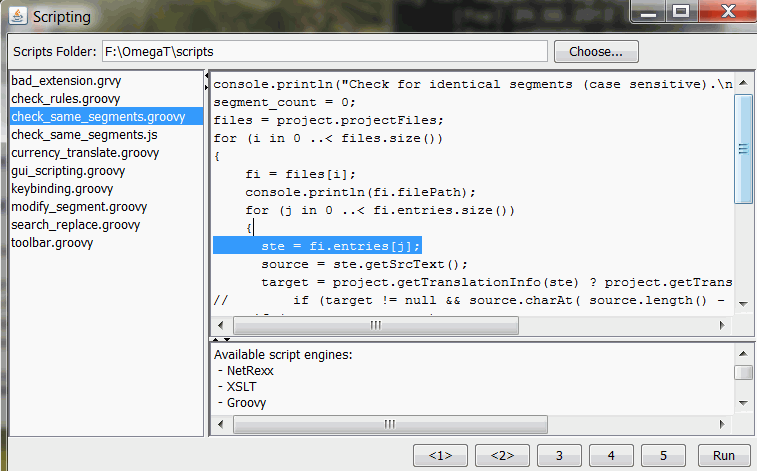
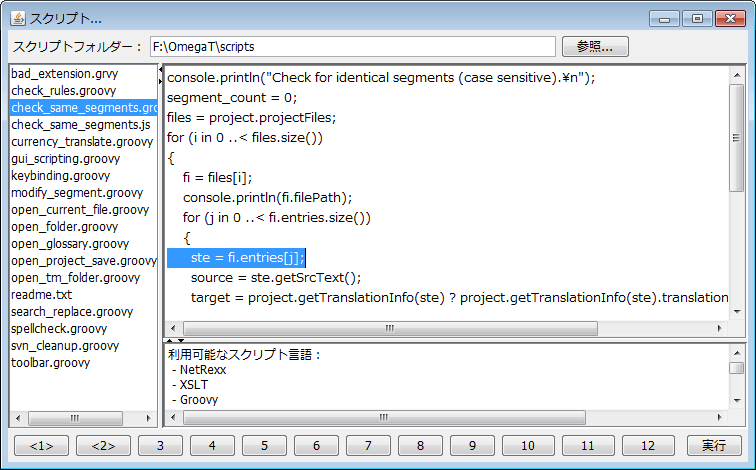
Update Japanese translation (UI, documentation)

diff --git a/trunk/docs/ja/appendix.ScriptingPlugin.inOmegaT.html b/trunk/docs/ja/appendix.ScriptingPlugin.inOmegaT.html
@@ -1,4 +1,4 @@
-<html><head><meta http-equiv="Content-Type" content="text/html; charset=UTF-8"><title>付録F スクリプト プラグイン</title><link rel="stylesheet" type="text/css" href="OmegaT.css"><meta name="generator" content="DocBook XSL Stylesheets V1.78.1"><link rel="home" href="index.html" title="OmegaT 3.0 - 取扱説明書"><link rel="up" href="index.html" title="OmegaT 3.0 - 取扱説明書"><link rel="prev" href="appendix.LanguageToolPlugin.inOmegaT.html" title="付録E LanguageTool プラグイン"><link rel="next" href="appendix.website.html" title="付録G ウェブ上の OmegaT 情報"></head><body bgcolor="white" text="black" link="#0000FF" vlink="#840084" alink="#0000FF"><div class="navheader"><table width="100%" summary="Navigation header"><tr><th colspan="3" align="center">付録F スクリプト プラグイン</th></tr><tr><td width="20%" align="left"><a accesskey="p" href="appendix.LanguageToolPlugin.inOmegaT.html">戻る</a>&nbsp;</td><th width="60%" align="center">&nbsp;</th><td width="20%" align="right">&nbsp;<a accesskey="n" href="appendix.website.html">次へ</a></td></tr></table><hr></div><div class="appendix"><div class="titlepage"><div><div><h1 class="title"><a name="appendix.ScriptingPlugin.inOmegaT"></a>付録F スクリプト プラグイン<a class="indexterm" name="d0e10859"></a></h1></div></div></div><div class="toc"><dl class="toc"><dt><span class="section"><a href="appendix.ScriptingPlugin.inOmegaT.html#d0e10864">1. はじめに</a></span></dt><dt><span class="section"><a href="appendix.ScriptingPlugin.inOmegaT.html#d0e10869">2. インストールと使い方</a></span></dt></dl></div><div class="section"><div class="titlepage"><div><div><h2 class="title" style="clear: both"><a name="d0e10864"></a>1. はじめに</h2></div></div></div><p>スクリプト プラグインを使うと、さまざまなスクリプト言語で書かれたスクリプトを OmegaT で実行することができます。</p></div><div class="section"><div class="titlepage"><div><div><h2 class="title" style="clear: both"><a name="d0e10869"></a>2. インストールと使い方</h2></div></div></div><p>OmegaT 用のスクリプト プラグインは、<a class="ulink" href="http://sourceforge.net/projects/omegat-plugins/files" target="_top">OmegaT プラグインのダウンロードサイト</a>から入手できます。Zip 圧縮ファイルを解凍して、展開されたすべてのファイルを「plugins」フォルダーに移動してください。「plugins」フォルダーは通常、OmegaT のインストール先フォルダー（OmegaT.jar ファイルを含む）の配下にあります。もし「plugins」フォルダーが見当たらなければ、先にフォルダーを作成してください。</p><p>インストールが完了すると、<span class="guisubmenu">［ツール］</span>メニューに新たに<span class="guisubmenu">［スクリプト...］</span>サブメニューが追加されます。また<span class="guisubmenu">［スクリプト...］</span>サブメニューの下には、スクリプト用の五つのプレースホルダーも追加されます。<span class="guisubmenu">［スクリプト...］</span>をクリックすると、スクリプト ダイアログが開きます：</p><div class="screenshot"><div class="mediaobject"><img src="images/ScriptingDialog.png"></div></div><p>スクリプト ダイアログ上では、既存のスクリプトをテキスト欄に読み込んだり、それをいま開いているプロジェクトに対して実行したりできます。スクリプトをカスタマイズする手順は、次の通りです：</p><div class="itemizedlist"><ul class="itemizedlist" style="list-style-type: disc; "><li class="listitem"><p>左側のスクリプト一覧から目的のスクリプト名をクリックして、編集ウィンドウに読み込みます。</p></li></ul></div><div class="itemizedlist"><ul class="itemizedlist" style="list-style-type: disc; "><li class="listitem"><p>下部にある「1」から「5」のどれかのボタンの上で右クリックし、［スクリプトを設定］を選びます。上の画像では、２つのスクリプトがすでに（ボタン「&lt;1&gt;」と「&lt;2&gt;」に）設定済みです。</p></li></ul></div><div class="itemizedlist"><ul class="itemizedlist" style="list-style-type: disc; "><li class="listitem"><p>数値ボタンを左クリックすると、そこに設定されているスクリプトを実行できます。また<span class="guisubmenu">［ツール］</span>メニューからスクリプトを選んだり、割り当てられたショートカットキー<span class="keycap"><strong>Ctrl+Alt+F#</strong></span>（# は 1 から 5）を使うことでも、同じようにスクリプトを実行できます。</p></li></ul></div><p>以下のスクリプト言語は、最初から使える状態になっています：</p><div class="itemizedlist"><ul class="itemizedlist" style="list-style-type: disc; "><li class="listitem"><p><span class="bold"><strong>NetRexx</strong></span>（http://www.netrexx.org/）： 旧来の REXX 構文を利用できます。予約キーワードはありません。Java のオブジェクト モデルと互換性のある形でオブジェクト指向プログラミングをサポートするため、多くの拡張が施されています。環境に存在するすべての Java クラスライブラリを、特別な設定をすることなくそのまま利用できます。あるいは Java プログラマーであれば、Java のソースプログラムからランタイム パッケージ経由で単純に Rexx クラスを呼び出し、強力な文字列処理を行うこともできます。</p></li></ul></div><div class="itemizedlist"><ul class="itemizedlist" style="list-style-type: disc; "><li class="listitem"><p><span class="bold"><strong>XSLT</strong></span>（Extensible Stylesheet Language Transformations）：XML 文書を変換するために用いられる、宣言的な XML ベースの言語です。原文書には一切変更を加えません。既存の文書を元に、新しい文書を作成します。プロセッサーは、文書を標準的な XML 形式や、HTML、プレーンテキストなどの形式に変換（出力）できます。XSLT は、異なる XML スキーマ間での変換や、XML データをウェブページや PDF 文書などに変換する用途で、最もよく使われています。</p></li></ul></div><div class="itemizedlist"><ul class="itemizedlist" style="list-style-type: disc; "><li class="listitem"><p><span class="bold"><strong>Groovy</strong></span>（http://groovy.codehaus.org）：Java 仮想マシン向けの動的言語です。構文的に Java との互換性を最大限に保った上で、さらに Python や Ruby、Smalltalk に触発された強力な拡張機能を持ちます。</p></li></ul></div><div class="itemizedlist"><ul class="itemizedlist" style="list-style-type: disc; "><li class="listitem"><p><span class="bold"><strong>JavaScript</strong></span>（JS と略すこともあり、Java とは無関係）：プロトタイプ ベースのスクリプト言語です。動的で、弱い型付け、ファーストクラス関数などの特徴を持ちます。オブジェクト指向、命令型、および関数型プログラミングのスタイルをサポートする、マルチパラダイム言語です。Firefox のような人気のあるプログラムで利用されていることから、とりわけオープンソースの分野で普及し好まれています。</p></li></ul></div><p>すべての言語から、プロジェクトを先頭のオブジェクトとする OmegaT のオブジェクトモデルにアクセスできます。次に示すコードスニペットは、現在のプロジェクトから全ファイルの全分節を走査する groovy スクリプトの例です。このスクリプトは、もし訳文が存在していれば、その分節の原文と訳文を出力します：</p><pre class="programlisting">    files = project.projectFiles;
+<html><head><meta http-equiv="Content-Type" content="text/html; charset=UTF-8"><title>付録F スクリプト プラグイン</title><link rel="stylesheet" type="text/css" href="OmegaT.css"><meta name="generator" content="DocBook XSL Stylesheets V1.78.1"><link rel="home" href="index.html" title="OmegaT 3.0 - 取扱説明書"><link rel="up" href="index.html" title="OmegaT 3.0 - 取扱説明書"><link rel="prev" href="appendix.LanguageToolPlugin.inOmegaT.html" title="付録E LanguageTool プラグイン"><link rel="next" href="appendix.website.html" title="付録G ウェブ上の OmegaT 情報"></head><body bgcolor="white" text="black" link="#0000FF" vlink="#840084" alink="#0000FF"><div class="navheader"><table width="100%" summary="Navigation header"><tr><th colspan="3" align="center">付録F スクリプト プラグイン</th></tr><tr><td width="20%" align="left"><a accesskey="p" href="appendix.LanguageToolPlugin.inOmegaT.html">戻る</a>&nbsp;</td><th width="60%" align="center">&nbsp;</th><td width="20%" align="right">&nbsp;<a accesskey="n" href="appendix.website.html">次へ</a></td></tr></table><hr></div><div class="appendix"><div class="titlepage"><div><div><h1 class="title"><a name="appendix.ScriptingPlugin.inOmegaT"></a>付録F スクリプト プラグイン<a class="indexterm" name="d0e10859"></a></h1></div></div></div><div class="toc"><dl class="toc"><dt><span class="section"><a href="appendix.ScriptingPlugin.inOmegaT.html#d0e10864">1. はじめに</a></span></dt><dt><span class="section"><a href="appendix.ScriptingPlugin.inOmegaT.html#d0e10869">2. インストールと使い方</a></span></dt></dl></div><div class="section"><div class="titlepage"><div><div><h2 class="title" style="clear: both"><a name="d0e10864"></a>1. はじめに</h2></div></div></div><p>スクリプト プラグインを使うと、さまざまなスクリプト言語で書かれたスクリプトを OmegaT で実行することができます。</p></div><div class="section"><div class="titlepage"><div><div><h2 class="title" style="clear: both"><a name="d0e10869"></a>2. インストールと使い方</h2></div></div></div><p>OmegaT 用のスクリプト プラグインは、<a class="ulink" href="http://sourceforge.net/projects/omegat-plugins/files" target="_top">OmegaT プラグインのダウンロードサイト</a>から入手できます。Zip 圧縮ファイルを解凍して、展開されたすべてのファイルを「plugins」フォルダーに移動してください。「plugins」フォルダーは通常、OmegaT のインストール先フォルダー（OmegaT.jar ファイルを含む）の配下にあります。もし「plugins」フォルダーが見当たらなければ、先にフォルダーを作成してください。</p><p>インストールが完了すると、<span class="guisubmenu">［ツール］</span>メニューに新たに<span class="guisubmenu">［スクリプト...］</span>サブメニューが追加されます。また<span class="guisubmenu">［スクリプト...］</span>サブメニューの下には、スクリプト用の 12 のプレースホルダーも追加されます。<span class="guisubmenu">［スクリプト...］</span>をクリックすると、スクリプト ダイアログが開きます：</p><div class="screenshot"><div class="mediaobject"><img src="images/ScriptingDialog.png"></div></div><p>スクリプト ダイアログ上では、既存のスクリプトをテキスト欄に読み込んだり、それをいま開いているプロジェクトに対して実行したりできます。スクリプトをカスタマイズする手順は、次の通りです：</p><div class="itemizedlist"><ul class="itemizedlist" style="list-style-type: disc; "><li class="listitem"><p>左側のスクリプト一覧から目的のスクリプト名をクリックして、編集ウィンドウに読み込みます。</p></li></ul></div><div class="itemizedlist"><ul class="itemizedlist" style="list-style-type: disc; "><li class="listitem"><p>下部にある「1」から「12」のどれかのボタンの上で右クリックし、［スクリプトを設定］を選びます。上の画像では、２つのスクリプトがすでに（ボタン「&lt;1&gt;」と「&lt;2&gt;」に）設定済みです。</p></li></ul></div><div class="itemizedlist"><ul class="itemizedlist" style="list-style-type: disc; "><li class="listitem"><p>数値ボタンを左クリックすると、そこに設定されているスクリプトを実行できます。また<span class="guisubmenu">［ツール］</span>メニューからスクリプトを選んだり、割り当てられたショートカットキー<span class="keycap"><strong>Ctrl+Alt+F#</strong></span>（# は 1 から 12）を使うことでも、同じようにスクリプトを実行できます。</p></li></ul></div><p>以下のスクリプト言語は、最初から使える状態になっています：</p><div class="itemizedlist"><ul class="itemizedlist" style="list-style-type: disc; "><li class="listitem"><p><span class="bold"><strong>NetRexx</strong></span>（http://www.netrexx.org/）： 旧来の REXX 構文を利用できます。予約キーワードはありません。Java のオブジェクト モデルと互換性のある形でオブジェクト指向プログラミングをサポートするため、多くの拡張が施されています。環境に存在するすべての Java クラスライブラリを、特別な設定をすることなくそのまま利用できます。あるいは Java プログラマーであれば、Java のソースプログラムからランタイム パッケージ経由で単純に Rexx クラスを呼び出し、強力な文字列処理を行うこともできます。</p></li></ul></div><div class="itemizedlist"><ul class="itemizedlist" style="list-style-type: disc; "><li class="listitem"><p><span class="bold"><strong>XSLT</strong></span>（Extensible Stylesheet Language Transformations）：XML 文書を変換するために用いられる、宣言的な XML ベースの言語です。原文書には一切変更を加えません。既存の文書を元に、新しい文書を作成します。プロセッサーは、文書を標準的な XML 形式や、HTML、プレーンテキストなどの形式に変換（出力）できます。XSLT は、異なる XML スキーマ間での変換や、XML データをウェブページや PDF 文書などに変換する用途で、最もよく使われています。</p></li></ul></div><div class="itemizedlist"><ul class="itemizedlist" style="list-style-type: disc; "><li class="listitem"><p><span class="bold"><strong>Groovy</strong></span>（http://groovy.codehaus.org）：Java 仮想マシン向けの動的言語です。構文的に Java との互換性を最大限に保った上で、さらに Python や Ruby、Smalltalk に触発された強力な拡張機能を持ちます。</p></li></ul></div><div class="itemizedlist"><ul class="itemizedlist" style="list-style-type: disc; "><li class="listitem"><p><span class="bold"><strong>JavaScript</strong></span>（JS と略すこともあり、Java とは無関係）：プロトタイプ ベースのスクリプト言語です。動的で、弱い型付け、ファーストクラス関数などの特徴を持ちます。オブジェクト指向、命令型、および関数型プログラミングのスタイルをサポートする、マルチパラダイム言語です。Firefox のような人気のあるプログラムで利用されていることから、とりわけオープンソースの分野で普及し好まれています。</p></li></ul></div><p>すべての言語から、プロジェクトを先頭のオブジェクトとする OmegaT のオブジェクトモデルにアクセスできます。次に示すコードスニペットは、現在のプロジェクトから全ファイルの全分節を走査する groovy スクリプトの例です。このスクリプトは、もし訳文が存在していれば、その分節の原文と訳文を出力します：</p><pre class="programlisting">    files = project.projectFiles;
     for (i in 0 ..&lt; files.size())
     {
         for (j in 0 ..&lt; files[i].entries.size())
